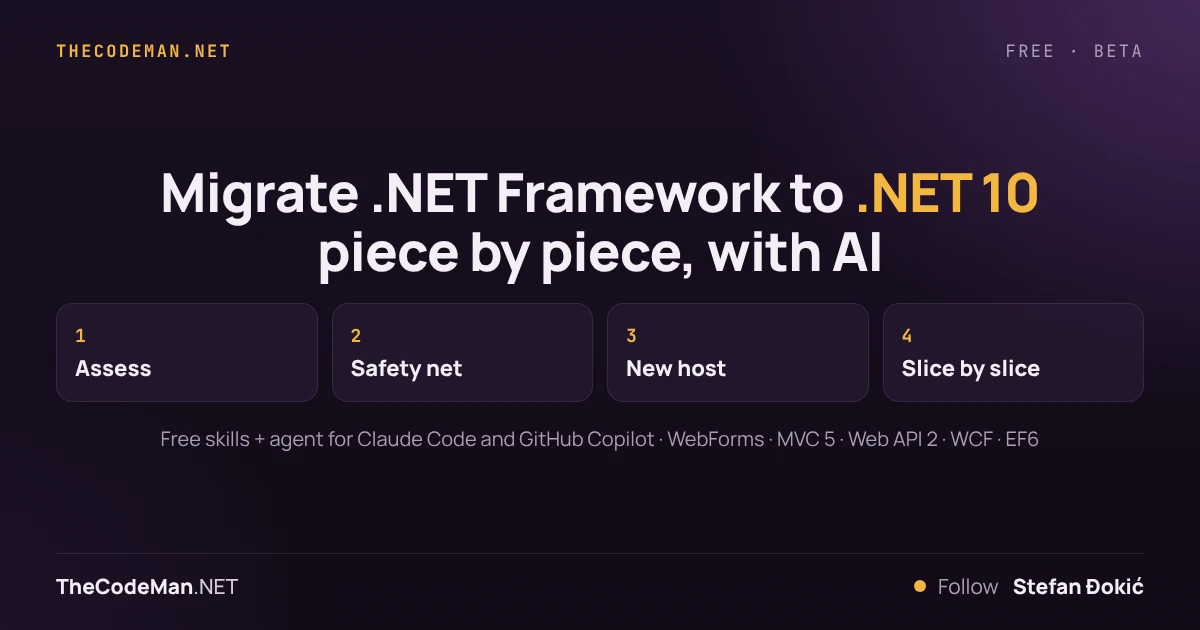
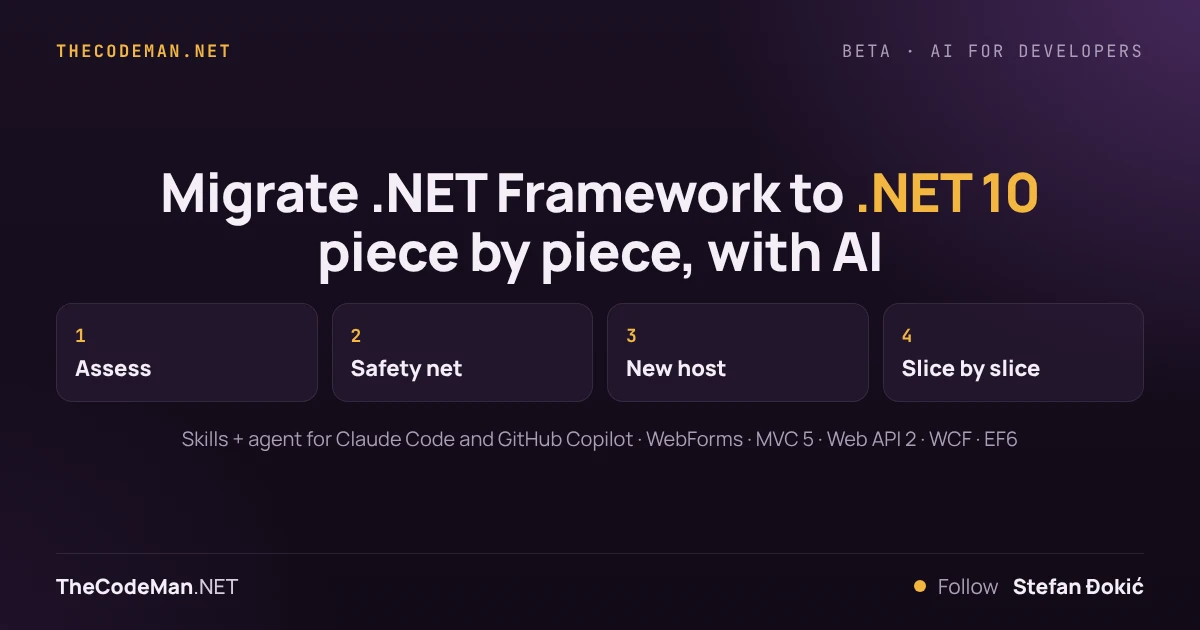
/legacy-dotnet: send readers to the community, not GitHub
The packs are for AI for Developers members, so every "get it" button now goes to the community. The install section becomes "How to get it", the FAQ answers "How do I get it?", and "free / open source" is gone from the copy and the OG image. The sample report stays public.

Claude-Session: https://claude.ai/code/session_016C2YrQt9V1vqqSoFaASQUz

Changed region(s): [[0.1233, 0.6635, 0.8633, 0.7238], [0.7708, 0.0603, 0.9558, 0.0905], [0.6783, 0.0603, 0.74, 0.0905]]

diff --git a/app/legacy-dotnet/page.tsx b/app/legacy-dotnet/page.tsx
@@ -3,16 +3,15 @@ import FreeMotion from '../../components/free/FreeMotion'
 import BfAiStrip from '@/components/BfAiStrip';
 import { AI_COMMUNITY_JOIN_URL } from '@/components/aiCommunity';
 
-// Free resource page for the .NET Pack in the AI for Developers repo:
-// Legacy Pack (maintenance) + Migration Pack (beta, .NET Framework -> .NET 10).
+// Landing page for the .NET Pack (Legacy Pack + Migration Pack beta), which is
+// available to AI for Developers community members only. No public repo links here:
+// every "get it" CTA goes to the community. The sample report is public on purpose.
 const PAGE_URL = 'https://thecodeman.net/legacy-dotnet'
 const IMAGE = '/images/legacy-dotnet/og.webp'
-const REPO_URL = 'https://github.com/StefanTheCode/AI-for-Developers/tree/main/packs/dotnet'
-const COPILOT_GUIDE_URL = 'https://github.com/StefanTheCode/AI-for-Developers/blob/main/packs/dotnet/COPILOT.md'
 const SAMPLE_REPORT_URL = '/downloads/legacy-shop-migration-assessment.html'
-const TITLE = 'Migrate .NET Framework to .NET 10 with AI - Free Migration Pack'
+const TITLE = 'Migrate .NET Framework to .NET 10 with AI - the Migration Pack'
 const DESCRIPTION =
-  'Free Claude Code and GitHub Copilot skills that move a .NET Framework app to .NET 10 piece by piece: an HTML assessment report, parity tests, a YARP strangler host and slice-by-slice migration of WebForms, MVC 5, Web API 2, WCF and EF6.'
+  'Claude Code and GitHub Copilot skills that move a .NET Framework app to .NET 10 piece by piece: an HTML assessment report, parity tests, a YARP strangler host and slice-by-slice migration of WebForms, MVC 5, Web API 2, WCF and EF6.'
 
 export const metadata: Metadata = {
   metadataBase: new URL('https://thecodeman.net'),
@@ -87,7 +86,7 @@ const faq = [
   { q: 'Does it work with GitHub Copilot?', a: 'Yes. The skills are plain SKILL.md files that Copilot reads as they are, and every agent has a Copilot edition. It works in VS Code, Visual Studio and Copilot CLI.' },
   { q: 'How much can AI really do?', a: 'Most of the mechanical work, the first draft of the translated code and most of the tests. On the sample app the report puts it at about 62% of the hands-on work. Decisions about auth, session, hosting and data stay with you.' },
   { q: 'What isn\'t covered yet?', a: 'It scans C# projects only (no VB.NET yet). WinForms and WPF UI migration, and reporting tools like Crystal Reports or ActiveReports, are out of scope. It\'s a beta - tell me what it missed on your app.' },
-  { q: 'Is it free?', a: 'Yes. Everything is in a public GitHub repo, free to use and adapt.' },
+  { q: 'How do I get it?', a: 'The pack is part of the AI for Developers community, together with the AI for Developers course, 50+ skills and agents with a lesson for each, weekly AI news and live calls. Members get the install steps for Claude Code and GitHub Copilot inside. The sample report on this page is free to open.' },
 ]
 
 const card = { border: '1px solid var(--tk-line)', borderRadius: '16px', background: 'var(--tk-card-bg)' } as const
@@ -108,7 +107,7 @@ const LegacyDotnet = () => {
           <div className="container">
             <div className="row justify-content-center">
               <div className="col-xs-12 col-sm-12 col-md-11 col-lg-9 heading-section text-center mt-5">
-                <span className="tk-eyebrow" data-reveal>Free · open source · beta</span>
+                <span className="tk-eyebrow" data-reveal>Beta · in the AI for Developers community</span>
 
                 <div className="d-flex justify-content-center mb-4" data-reveal data-delay="1">
                   <div className="d-inline-flex align-items-center" style={{ background: 'rgba(255,255,255,0.06)', border: '1px solid rgba(255,255,255,0.1)', borderRadius: '999px', padding: '8px 16px' }}>
@@ -122,7 +121,7 @@ const LegacyDotnet = () => {
                 </h1>
 
                 <h4 className="text-white mb-4" style={{ fontWeight: 400, lineHeight: 1.6 }} data-reveal data-delay="2">
-                  Free skills and agents that move WebForms, MVC 5, Web API 2, WCF and EF6 to .NET 10 one slice at a time - with tests that prove nothing changed.
+                  Skills and agents that move WebForms, MVC 5, Web API 2, WCF and EF6 to .NET 10 one slice at a time - with tests that prove nothing changed.
                 </h4>
 
                 <p className="text-white mb-4" style={{ opacity: 0.85, lineHeight: 1.7 }} data-reveal data-delay="2">
@@ -131,7 +130,7 @@ const LegacyDotnet = () => {
                 </p>
 
                 <div className="d-flex flex-wrap justify-content-center gap-3" data-reveal data-delay="3">
-                  <a href={REPO_URL} className="tk-btn" style={yellowBtn} target="_blank" rel="noopener noreferrer" data-cta="legacy-dotnet-github">Get it on GitHub</a>
+                  <a href={AI_COMMUNITY_JOIN_URL} className="tk-btn" style={yellowBtn} target="_blank" rel="noopener noreferrer" data-cta="legacy-dotnet-community-hero">Get it in the community</a>
                   <a href={SAMPLE_REPORT_URL} className="tk-btn" style={outlineBtn} target="_blank" rel="noopener" data-cta="legacy-dotnet-sample-report">Open a sample report</a>
                 </div>
 
@@ -269,22 +268,18 @@ const LegacyDotnet = () => {
         <div className="container pt-4">
           <div className="row justify-content-center text-center">
             <div className="col-md-12 mb-4">
-              <span className="tk-eyebrow" data-reveal>Install</span>
-              <h2 className="text-white" data-reveal data-delay="1">Two commands in Claude Code</h2>
+              <span className="tk-eyebrow" data-reveal>How to get it</span>
+              <h2 className="text-white" data-reveal data-delay="1">Join the community, then one prompt</h2>
             </div>
             <div className="col-xs-12 col-md-10 col-lg-8 mb-3" data-reveal>
-              <pre style={codeBlock}>{`/plugin marketplace add StefanTheCode/AI-for-Developers
-/plugin install dotnet-pack@thecodeman-ai-toolkit`}</pre>
-            </div>
-            <div className="col-xs-12 col-md-10 col-lg-8 mb-3" data-reveal>
+              <p className="text-white" style={{ opacity: 0.85, lineHeight: 1.7 }}>
+                The Legacy Pack and the Migration Pack are part of the AI for Developers community. Inside you get the install steps for Claude Code and GitHub Copilot (VS Code and Copilot CLI), a lesson for every skill and agent, and the LegacyShop sample app to practice on.
+              </p>
               <p className="text-white" style={{ opacity: 0.85 }}>Then, in your solution folder:</p>
               <pre style={codeBlock}>{`Assess MySolution.sln for migration to .NET 10.`}</pre>
             </div>
             <div className="col-xs-12 col-md-10 col-lg-8" data-reveal>
-              <p className="text-white" style={{ opacity: 0.85, lineHeight: 1.7 }}>
-                Using GitHub Copilot? Copy the skills to <code style={mono}>.github/skills</code> and the agents to <code style={mono}>.github/agents</code> -
-                the <a href={COPILOT_GUIDE_URL} className="text-yellow" target="_blank" rel="noopener noreferrer">Copilot guide</a> has the commands for VS Code, Visual Studio and Copilot CLI.
-              </p>
+              <a href={AI_COMMUNITY_JOIN_URL} className="tk-btn" style={yellowBtn} target="_blank" rel="noopener noreferrer" data-cta="legacy-dotnet-community-install">Join the community</a>
             </div>
           </div>
         </div>
@@ -312,11 +307,11 @@ const LegacyDotnet = () => {
           <div className="row justify-content-center" data-reveal>
             <div className="col-xs-12 col-sm-12 col-md-10 col-lg-9">
               <div className="tk-card p-5 text-center" style={{ ...card, background: 'rgba(var(--tcm-amber-rgb), 0.06)', borderColor: 'rgba(var(--tcm-amber-rgb), 0.3)' }}>
-                <h2 className="text-white mb-3">Start with the report. It&apos;s free.</h2>
-                <p className="text-white mb-4" style={{ opacity: 0.85 }}>Run it on your solution, read the numbers, then decide. Questions, or a case the pack missed? Bring it to the community.</p>
+                <h2 className="text-white mb-3">Start with the report.</h2>
+                <p className="text-white mb-4" style={{ opacity: 0.85 }}>Join the community, run it on your solution, read the numbers, then decide. Questions, or a case the pack missed? Bring it to the group.</p>
                 <div className="d-flex flex-wrap justify-content-center gap-3">
-                  <a href={REPO_URL} className="tk-btn" style={yellowBtn} target="_blank" rel="noopener noreferrer" data-cta="legacy-dotnet-github-final">Get it on GitHub</a>
-                  <a href={AI_COMMUNITY_JOIN_URL} className="tk-btn" style={outlineBtn} target="_blank" rel="noopener noreferrer" data-cta="legacy-dotnet-community">Ask in the community</a>
+                  <a href={AI_COMMUNITY_JOIN_URL} className="tk-btn" style={yellowBtn} target="_blank" rel="noopener noreferrer" data-cta="legacy-dotnet-community-final">Join the community</a>
+                  <a href={SAMPLE_REPORT_URL} className="tk-btn" style={outlineBtn} target="_blank" rel="noopener" data-cta="legacy-dotnet-sample-report-3">Open the sample report</a>
                 </div>
               </div>
             </div>
